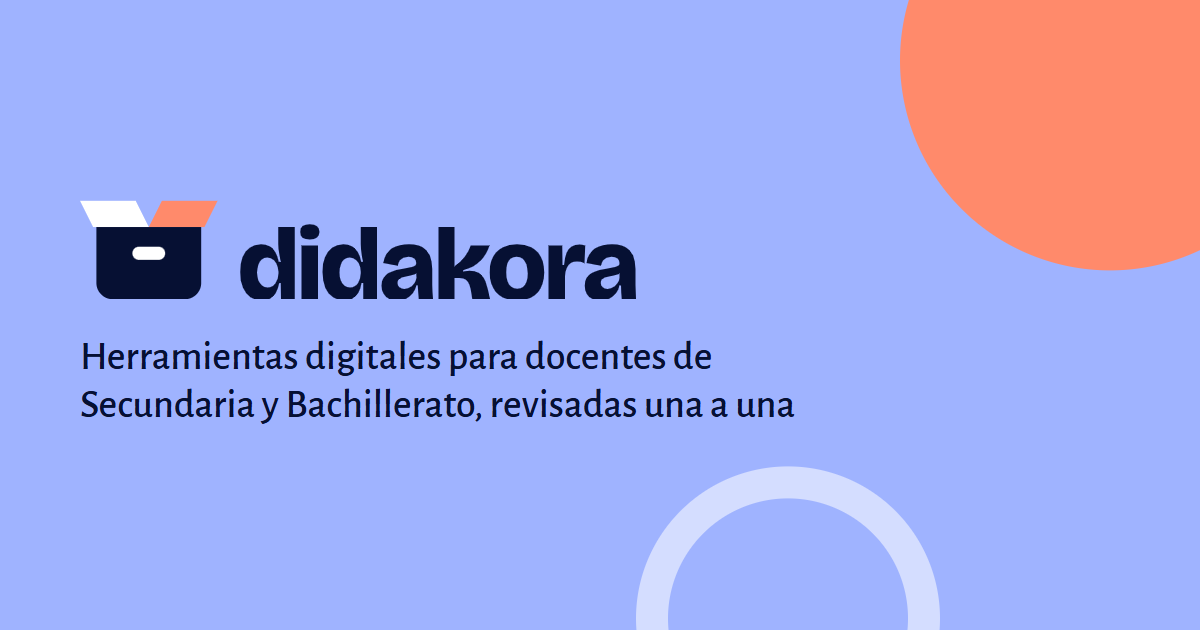
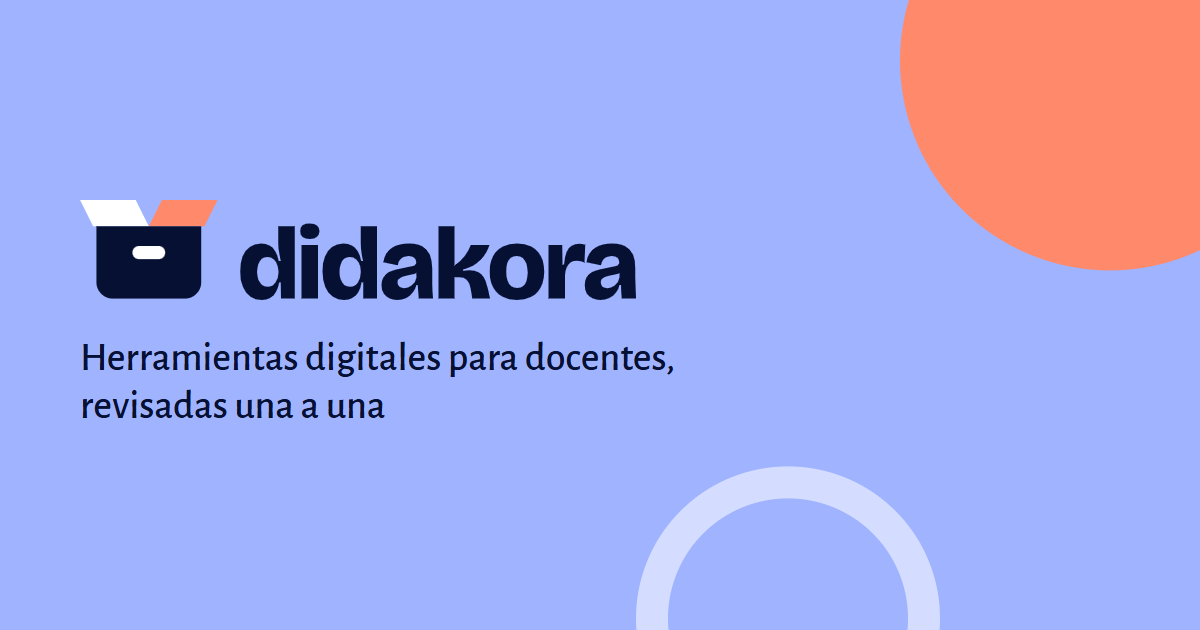
Hero y textos para todas las etapas
La etiqueta y la descripción ya no hablan solo de Secundaria y
Bachillerato, porque el buscador filtra por todas las etapas; el filtro
pasa a llamarse «etapa» en todas partes. También la imagen al compartir.

Changed region(s): [[0.0617, 0.5429, 0.6783, 0.6635], [0.4933, 0.4222, 0.5242, 0.4524], [0.4008, 0.4524, 0.4317, 0.4825]]

diff --git a/todas/index.html b/todas/index.html
@@ -4,9 +4,9 @@
 <meta charset="utf-8">
 <meta name="viewport" content="width=device-width,initial-scale=1">
 <title>Todas las herramientas · Didakora</title>
-<meta name="description" content="Todas las herramientas de Didakora, con buscador y filtros por categoría y nivel.">
+<meta name="description" content="Todas las herramientas de Didakora, con buscador y filtros por categoría y etapa.">
 <meta property="og:title" content="Todas las herramientas · Didakora">
-<meta property="og:description" content="Todas las herramientas de Didakora, con buscador y filtros por categoría y nivel.">
+<meta property="og:description" content="Todas las herramientas de Didakora, con buscador y filtros por categoría y etapa.">
 <meta property="og:image" content="https://pasadoproximo.github.io/didakora/marca/og.png">
 <meta property="og:type" content="website">
 <meta name="twitter:card" content="summary_large_image">
@@ -30,10 +30,10 @@
 
 <main class="pg">
  <div class="pnav"><a class="back" href="/didakora/" data-back><svg viewBox="0 0 24 24" aria-hidden="true"><path d="M19 12H5M11 6l-6 6 6 6"/></svg><span class="sr">Atrás</span></a><nav class="crumbs" aria-label="Ruta"><ol><li><a href="/didakora/"><svg viewBox="0 0 24 24" aria-hidden="true"><path d="M4 11 12 4l8 7v9h-5v-6h-6v6H4z"/></svg>Inicio</a></li><li aria-current="page">Todas las herramientas</li></ol></nav></div>
- <div class="pg-h"><span class="badge">Directorio</span><h1>Todas las herramientas</h1><p>Busca por nombre o por lo que necesitas hacer y filtra por categoría o por nivel.</p></div>
+ <div class="pg-h"><span class="badge">Directorio</span><h1>Todas las herramientas</h1><p>Busca por nombre o por lo que necesitas hacer y filtra por categoría o por etapa.</p></div>
  <form class="ls" role="search" onsubmit="return false">
   <div class="hs-q"><svg viewBox="0 0 24 24" aria-hidden="true"><circle cx="11" cy="11" r="6.5"/><path d="m20 20-4.4-4.4"/></svg><label class="sr" for="lq">Busca una herramienta</label><input id="lq" type="text" placeholder="Busca por nombre o por lo que necesitas hacer…" autocomplete="off" enterkeyhint="search"></div>
-  <div class="hs-n"><label class="sr" for="lnv">Nivel</label><select id="lnv" name="nivel"><option value="">Todos los niveles</option><option value="I">Infantil</option><option value="P">Primaria</option><option value="S">Secundaria y Bachillerato</option></select></div>
+  <div class="hs-n"><label class="sr" for="lnv">Etapa</label><select id="lnv" name="nivel"><option value="">Todas las etapas</option><option value="I">Infantil</option><option value="P">Primaria</option><option value="S">Secundaria y Bachillerato</option></select></div>
  </form>
  <div class="chips" id="lcats" role="group" aria-label="Categoría"><button type="button" data-cat="" aria-pressed="true">Todas</button><button type="button" data-cat="participar-y-repasar" aria-pressed="false">Participar y repasar</button><button type="button" data-cat="crear-y-presentar" aria-pressed="false">Crear y presentar</button><button type="button" data-cat="colaborar-y-organizar" aria-pressed="false">Colaborar y organizar ideas</button><button type="button" data-cat="explorar-por-materias" aria-pressed="false">Explorar por materias</button><button type="button" data-cat="programacion-y-diseno-3d" aria-pressed="false">Programación y diseño 3D</button><button type="button" data-cat="inteligencia-artificial" aria-pressed="false">Inteligencia artificial</button><button type="button" data-cat="evaluacion-y-seguimiento" aria-pressed="false">Evaluación y seguimiento</button><button type="button" data-cat="gestion-del-aula" aria-pressed="false">Gestión del aula y familias</button><button type="button" data-cat="aulas-virtuales" aria-pressed="false">Aulas virtuales</button><button type="button" data-cat="bancos-de-recursos" aria-pressed="false">Bancos de recursos e imágenes</button></div>
  <p class="count" id="lcount" aria-live="polite"></p>

diff --git a/index.html b/index.html
@@ -4,9 +4,9 @@
 <meta charset="utf-8">
 <meta name="viewport" content="width=device-width,initial-scale=1">
 <title>Didakora · Herramientas digitales para docentes</title>
-<meta name="description" content="117 herramientas digitales para docentes de Secundaria y Bachillerato, revisadas en octubre de 2026, con ejemplo de uso y lo que necesita cada una.">
+<meta name="description" content="117 herramientas digitales para docentes, revisadas en octubre de 2026, con ejemplo de uso, etapa recomendada y lo que necesita cada una.">
 <meta property="og:title" content="Didakora · Herramientas digitales para docentes">
-<meta property="og:description" content="117 herramientas digitales para docentes de Secundaria y Bachillerato, revisadas en octubre de 2026, con ejemplo de uso y lo que necesita cada una.">
+<meta property="og:description" content="117 herramientas digitales para docentes, revisadas en octubre de 2026, con ejemplo de uso, etapa recomendada y lo que necesita cada una.">
 <meta property="og:image" content="https://pasadoproximo.github.io/didakora/marca/og.png">
 <meta property="og:type" content="website">
 <meta name="twitter:card" content="summary_large_image">
@@ -31,13 +31,13 @@
 <main>
  <section class="hero" aria-labelledby="ph1">
   <div class="hero-t">
-   <span class="lab">Para docentes de Secundaria y Bachillerato</span>
+   <span class="lab">Herramientas digitales para docentes</span>
    <h1 id="ph1">La herramienta que <span>necesitas</span> para tu clase</h1>
-   <p class="hero-d">Herramientas digitales seleccionadas y revisadas para usar en clase. Búscala por su nombre o por lo que quieres hacer. Cada ficha la explica con un ejemplo, te dice la etapa recomendada, lo que necesita y te ofrece videotutoriales.</p>
+   <p class="hero-d">Una selección de herramientas revisadas una a una para usar en clase. Búscala por su nombre o por lo que quieres hacer y elige tu etapa. Cada ficha la explica con un ejemplo, te dice qué necesita y te ofrece videotutoriales.</p>
   </div>
   <form class="hs" action="/didakora/todas/" method="get" role="search">
    <div class="hs-q"><svg viewBox="0 0 24 24" aria-hidden="true"><circle cx="11" cy="11" r="6.5"/><path d="m20 20-4.4-4.4"/></svg><label class="sr" for="hq">Busca una herramienta</label><input id="hq" name="q" type="text" placeholder="Busca por nombre o por lo que necesitas hacer…" autocomplete="off" enterkeyhint="search"></div>
-   <div class="hs-n"><label class="sr" for="nv">Nivel</label><select id="nv" name="nivel"><option value="">Todos los niveles</option><option value="I">Infantil</option><option value="P">Primaria</option><option value="S">Secundaria y Bachillerato</option></select></div>
+   <div class="hs-n"><label class="sr" for="nv">Etapa</label><select id="nv" name="nivel"><option value="">Todas las etapas</option><option value="I">Infantil</option><option value="P">Primaria</option><option value="S">Secundaria y Bachillerato</option></select></div>
    <button type="submit">Buscar <svg viewBox="0 0 24 24" aria-hidden="true"><path d="M5 12h14M13 6l6 6-6 6"/></svg></button>
   </form>
  </section>

diff --git a/_build/build.py b/_build/build.py
@@ -196,7 +196,7 @@ def catcard(c):
     return (f'<a class="cc" href="{B}/categorias/{c[0]}/"><span class="cc-i {tone(c)}">{icon(c[3])}</span><b>{esc(c[1])}</b><span class="cc-d">{esc(CORTO[c[0]])}</span>'
             f'<span class="cc-x" aria-hidden="true">{ICO["ext"]}</span></a>')
 
-NIVEL = ('<label class="sr" for="nv">Nivel</label><select id="nv" name="nivel"><option value="">Todos los niveles</option>'
+NIVEL = ('<label class="sr" for="nv">Etapa</label><select id="nv" name="nivel"><option value="">Todas las etapas</option>'
          '<option value="I">Infantil</option><option value="P">Primaria</option><option value="S">Secundaria y Bachillerato</option></select>')
 
 # ---------------------------------------------------------------- portada
@@ -206,9 +206,9 @@ def portada():
 <main>
  <section class="hero" aria-labelledby="ph1">
   <div class="hero-t">
-   <span class="lab">Para docentes de Secundaria y Bachillerato</span>
+   <span class="lab">Herramientas digitales para docentes</span>
    <h1 id="ph1">La herramienta que <span>necesitas</span> para tu clase</h1>
-   <p class="hero-d">Herramientas digitales seleccionadas y revisadas para usar en clase. Búscala por su nombre o por lo que quieres hacer. Cada ficha la explica con un ejemplo, te dice la etapa recomendada, lo que necesita y te ofrece videotutoriales.</p>
+   <p class="hero-d">Una selección de herramientas revisadas una a una para usar en clase. Búscala por su nombre o por lo que quieres hacer y elige tu etapa. Cada ficha la explica con un ejemplo, te dice qué necesita y te ofrece videotutoriales.</p>
   </div>
   <form class="hs" action="{B}/todas/" method="get" role="search">
    <div class="hs-q">{ICO["search"]}<label class="sr" for="hq">Busca una herramienta</label><input id="hq" name="q" type="text" placeholder="Busca por nombre o por lo que necesitas hacer…" autocomplete="off" enterkeyhint="search"></div>
@@ -239,7 +239,7 @@ def portada():
 
 </main>'''
     write("index.html", head("Didakora · Herramientas digitales para docentes",
-        f"{len(TOOLS)} herramientas digitales para docentes de Secundaria y Bachillerato, revisadas en octubre de 2026, con ejemplo de uso y lo que necesita cada una.", "/") + body + foot())
+        f"{len(TOOLS)} herramientas digitales para docentes, revisadas en octubre de 2026, con ejemplo de uso, etapa recomendada y lo que necesita cada una.", "/") + body + foot())
 
 # ---------------------------------------------------------------- listado completo (lo pinta didakora.js)
 def todas():
@@ -247,7 +247,7 @@ def todas():
     body = f'''
 <main class="pg">
  {crumbs([("Inicio", f"{B}/"), ("Todas las herramientas", "")])}
- <div class="pg-h"><span class="badge">Directorio</span><h1>Todas las herramientas</h1><p>Busca por nombre o por lo que necesitas hacer y filtra por categoría o por nivel.</p></div>
+ <div class="pg-h"><span class="badge">Directorio</span><h1>Todas las herramientas</h1><p>Busca por nombre o por lo que necesitas hacer y filtra por categoría o por etapa.</p></div>
  <form class="ls" role="search" onsubmit="return false">
   <div class="hs-q">{ICO["search"]}<label class="sr" for="lq">Busca una herramienta</label><input id="lq" type="text" placeholder="Busca por nombre o por lo que necesitas hacer…" autocomplete="off" enterkeyhint="search"></div>
   <div class="hs-n">{NIVEL.replace('id="nv"', 'id="lnv"').replace('for="nv"', 'for="lnv"')}</div>
@@ -257,7 +257,7 @@ def todas():
  <div class="tcg" id="lgrid"></div>
  <noscript><div class="tcg">{"".join(card(t) for t in TOOLS)}</div></noscript>
 </main>'''
-    write("todas/index.html", head("Todas las herramientas · Didakora", "Todas las herramientas de Didakora, con buscador y filtros por categoría y nivel.", "/todas/", "todas")
+    write("todas/index.html", head("Todas las herramientas · Didakora", "Todas las herramientas de Didakora, con buscador y filtros por categoría y etapa.", "/todas/", "todas")
           + body + foot(f'\n<script src="{B}/tools.js?v={V}"></script>\n<script src="{B}/didakora-datos.js?v={V}"></script>\n<script>cajaListado()</script>'))
 
 # ---------------------------------------------------------------- destacadas
